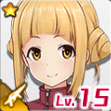
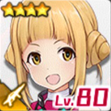
UPDATE charadata
・コラボ 高幡 のどかを更新
・コラボ 高幡 のどか / 師門を追加

diff --git a/alice.html b/alice.html
@@ -12,7 +12,7 @@
   <script>
 
 /* 更新情報 必要に応じて書き換えてください */
-  var version = "Ver 1.1.7 | UPDATE:2023/06/13";
+  var version = "Ver 1.1.7 | UPDATE:2023/06/28";
 
 
 /*
@@ -21,7 +21,7 @@
 
   { ... },
   でキャラデータがワンセット。各項目は下記の通り。
-  id       = 番号(101～FAGコラボ、151～アニメ、201～SOL/DTAコラボ、301～ｽﾄﾗｲｸｳｨｯﾁｰｽﾞ、401～ﾊﾞﾄﾙｶﾞｰﾙﾊｲｽｸｰﾙ、501～ﾃﾞｯﾄﾞｵｱｱﾗｲﾌﾞ、601～東京ﾄﾞｰﾙｽﾞ、701～ﾀﾞﾗｲｱｽ、801～ｼｭﾀｲﾝｽﾞ･ｹﾞｰﾄ、811～幼女戦記、821～ﾀﾞｰﾃｨﾍﾟｱ)
+  id       = 番号(101～アニメ、151～FAGコラボ、201～SOL/DTAコラボ、301～ｽﾄﾗｲｸｳｨｯﾁｰｽﾞ、401～ﾊﾞﾄﾙｶﾞｰﾙﾊｲｽｸｰﾙ、501～ﾃﾞｯﾄﾞｵｱｱﾗｲﾌﾞ、601～東京ﾄﾞｰﾙｽﾞ、701～ﾀﾞﾗｲｱｽ、801～ｼｭﾀｲﾝｽﾞ･ｹﾞｰﾄ、811～幼女戦記、821～ﾀﾞｰﾃｨﾍﾟｱ)
   type     = 1=放出特化、2=特質放出、3=変質放出、4=出力変性、5=出力特性
   src      = 画像ファイル名
   name     = キャラクター名
@@ -1681,7 +1681,7 @@
       "type": "4",
       "src": "normal-aoi.png",
       "name": "的場 アオイ",
-      "equip1": "2",
+      "equip1": "2/2",
       "equip2": "4",
       "equip3": "25",
       "equip4": "1",
@@ -1833,6 +1833,34 @@
     {
       "id": "101",
       "type": "4",
+      "src": "normal-nodoka.png",
+      "name": "高幡 のどか",
+      "equip1": "2",
+      "equip2": "3",
+      "equip3": "25",
+      "equip4": "25",
+      "sp": "2?",
+      "attr": "1",
+      "link": "https://wikiwiki.jp/alicegear/%E9%AB%98%E5%B9%A1%E3%81%AE%E3%81%A9%E3%81%8B",
+      "category": "99"
+    },
+    {
+      "id": "102",
+      "type": "1",
+      "src": "another-nodoka.png",
+      "name": "高幡 のどか / 師門",
+      "equip1": "2",
+      "equip2": "3",
+      "equip3": "2",
+      "equip4": "25?",
+      "sp": "2?",
+      "attr": "3",
+      "link": "https://wikiwiki.jp/alicegear/%E9%AB%98%E5%B9%A1%E3%81%AE%E3%81%A9%E3%81%8B%E5%B8%AB%E9%96%80",
+      "category": "99"
+    },
+    {
+      "id": "151",
+      "type": "4",
       "src": "normal-gourai.png",
       "name": "轟雷",
       "equip1": "1/1",
@@ -1845,7 +1873,7 @@
       "category": "99"
     },
     {
-      "id": "102",
+      "id": "152",
       "type": "4",
       "src": "normal-stylet.png",
       "name": "スティレット",
@@ -1859,7 +1887,7 @@
       "category": "99"
     },
     {
-      "id": "103",
+      "id": "153",
       "type": "3",
       "src": "normal-baselard.png",
       "name": "バーゼラルド",
@@ -1873,7 +1901,7 @@
       "category": "99"
     },
     {
-      "id": "104",
+      "id": "154",
       "type": "3",
       "src": "normal-hresvelgr.png",
       "name": "フレズヴェルク",
@@ -1887,7 +1915,7 @@
       "category": "99"
     },
     {
-      "id": "105",
+      "id": "155",
       "type": "2",
       "src": "normal-ao.png",
       "name": "源内 あお",
@@ -1901,7 +1929,7 @@
       "category": "99"
     },
     {
-      "id": "106",
+      "id": "156",
       "type": "2",
       "src": "normal-bukiko.png",
       "name": "寿 武希子",
@@ -1912,20 +1940,6 @@
       "sp": "3",
       "attr": "4",
       "link": "https://wikiwiki.jp/alicegear/%E5%AF%BF%E6%AD%A6%E5%B8%8C%E5%AD%90",
-      "category": "99"
-    },
-    {
-      "id": "151",
-      "type": "4",
-      "src": "normal-nodoka.png",
-      "name": "高幡 のどか",
-      "equip1": "?",
-      "equip2": "?",
-      "equip3": "?",
-      "equip4": "?",
-      "sp": "2",
-      "attr": "1",
-      "link": "https://wikiwiki.jp/alicegear/%E9%AB%98%E5%B9%A1%E3%81%AE%E3%81%A9%E3%81%8B",
       "category": "99"
     },
     {
